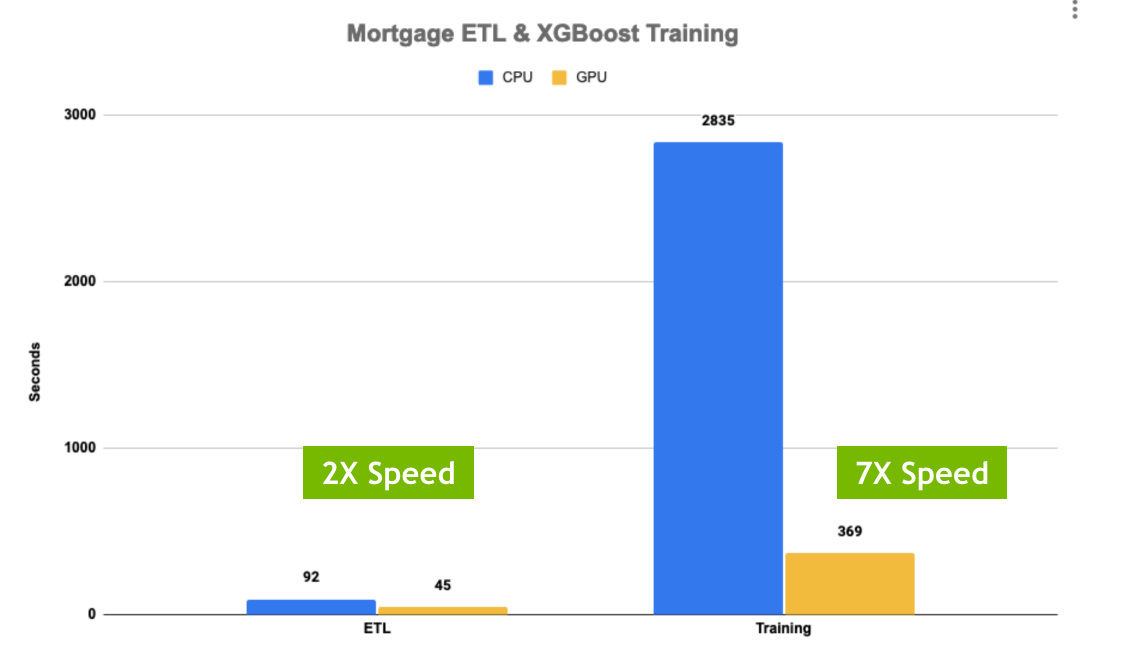
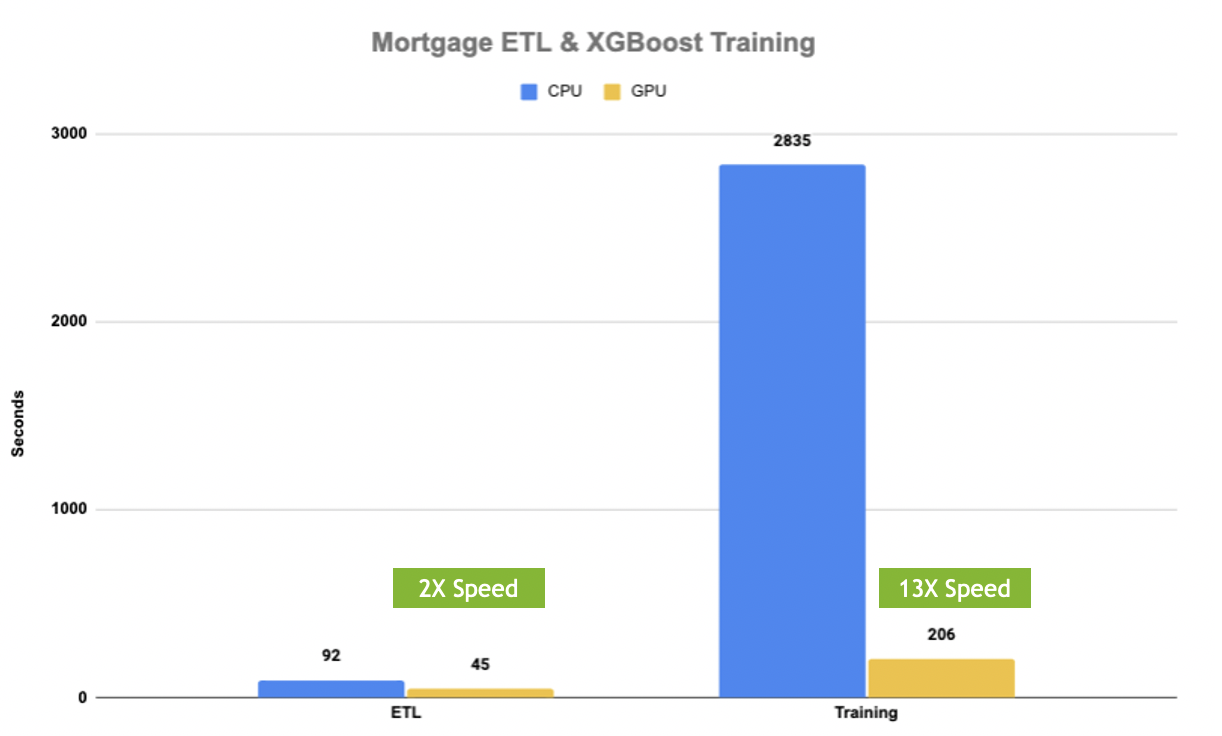
update the pyspark xgboost trainning perf and add a note for maxRecordsPerBatch default value

diff --git a/examples/XGBoost-Examples/README.md b/examples/XGBoost-Examples/README.md
@@ -5,8 +5,8 @@ The Scala based XGBoost examples here use [DMLC’s version](https://repo1.maven
 The pyspark based XGBoost examples requires [installing RAPIDS via pip](https://rapids.ai/pip.html#install).
 Most data scientists spend a lot of time not only on
 Training models but also processing the large amounts of data needed to train these models.
-As you can see below, Pyspark+XGBoost training on GPUs can be up to 7.7X and data processing using
-RAPIDS Accelerator can also be accelerated with an end-to-end speed-up of 7.2X on GPU compared to CPU.
+As you can see below, Pyspark+XGBoost training on GPUs can be up to 13X and data processing using
+RAPIDS Accelerator can also be accelerated with an end-to-end speed-up of 11X on GPU compared to CPU.
 In the public cloud, better performance can lead to significantly lower costs as demonstrated in this [blog](https://developer.nvidia.com/blog/gpu-accelerated-spark-xgboost/).
 
 ![mortgage-speedup](/docs/img/guides/mortgage-perf.png)
@@ -93,6 +93,9 @@ Please follow below steps to run the example notebooks in different notebook env
     - [Jupyter Notebook for Python](/docs/get-started/xgboost-examples/notebook/python-notebook.md)
     
 Note: 
+Update the default value of `spark.sql.execution.arrow.maxRecordsPerBatch` to a larger number(such as 200000) will  
+significantly improve performance by accelerating data transfer between JVM and Python process.
+
 For the CrossValidator job, we need to set `spark.task.resource.gpu.amount=1` to allow only 1 training task running on 1 GPU(executor),
 otherwise the customized CrossValidator may schedule more than 1 xgboost training tasks into one executor simultaneously and trigger 
 [issue-131](https://github.com/NVIDIA/spark-rapids-examples/issues/131).
